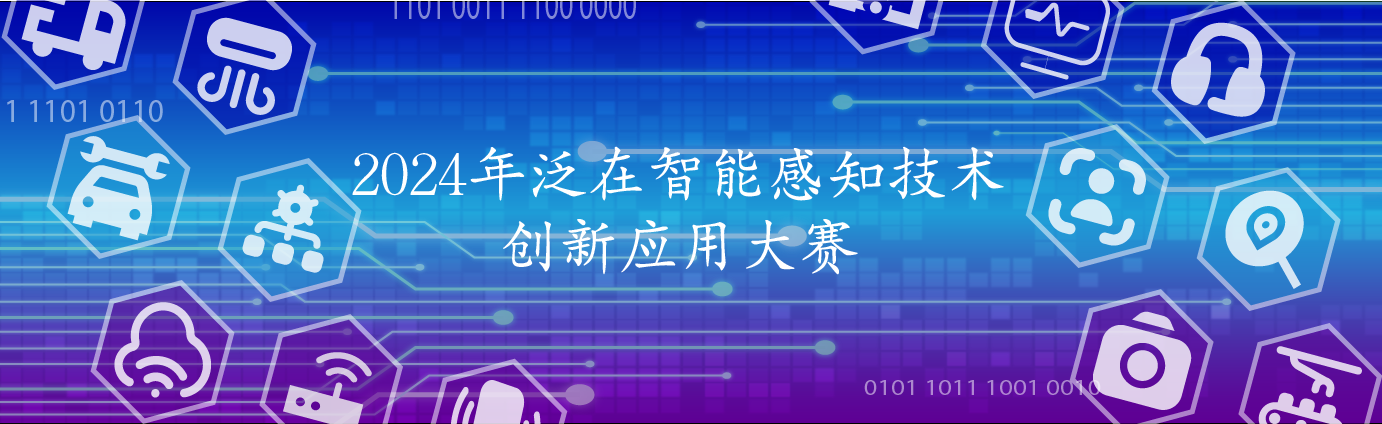
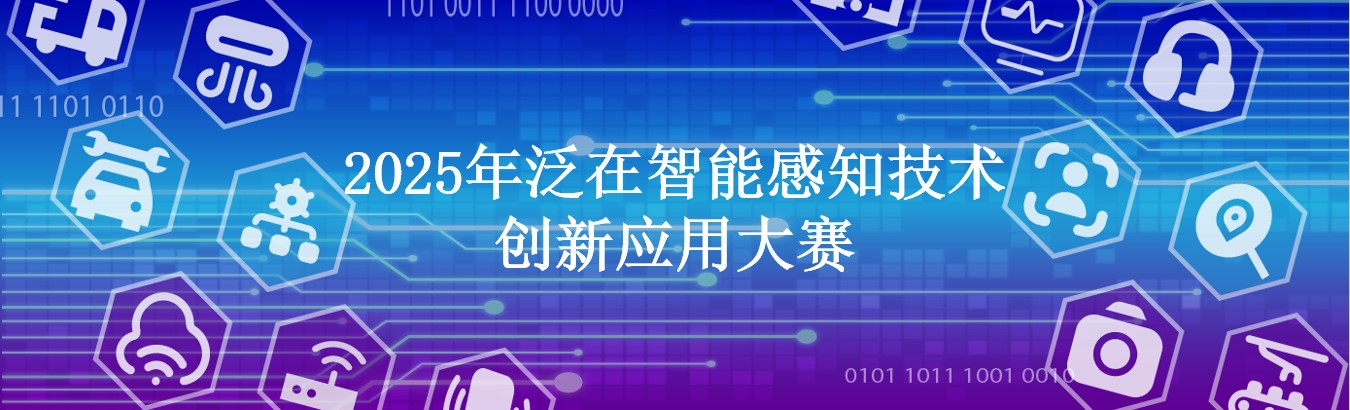
Add files via upload

diff --git a/index.html b/index.html
@@ -3,7 +3,7 @@
 <head>
     <meta charset="UTF-8">
     <meta name="viewport" content="width=device-width, initial-scale=1.0">
-    <title>UIST2024</title>
+    <title>UIST2025</title>
     <link rel="stylesheet" href="styles.css">
 </head>
 <body>
@@ -23,7 +23,7 @@
             <!-- <a href="#" data-chapter="guideline">参赛指南</a> -->
             <!-- <a href="#" data-chapter="signup">报名流程</a> -->
             <a href="#" data-chapter="submission">作品提交</a>
-            <a href="#" data-chapter="news">比赛新闻</a>
+            <!-- <a href="#" data-chapter="news">比赛新闻</a> -->
         </nav>
         <div>
             <br />
@@ -284,11 +284,11 @@
 
         <div id="organizors" class="chapter">
             <h2>主办单位</h2>
-            <p>中国计算机学会普适计算专委</p>
+            <p>中国计算机学会</p>
 
 
             <h2>承办单位</h2>
-            <p>浙江省北大信息技术高等研究院</p>
+            <p>中国计算机学会普适计算专委</p>
             <p>为保证大赛顺利进行，大赛在西北工业大学、北京大学、南京大学共同设立大赛秘书处，提供技术支持。</p>
 
 

diff --git a/styles.css b/styles.css
@@ -37,6 +37,7 @@ h3 {
 
 body {
     background-color: rgb(248, 248, 248);
+    overflow-y: scroll;
 }
 
 .body_box {
